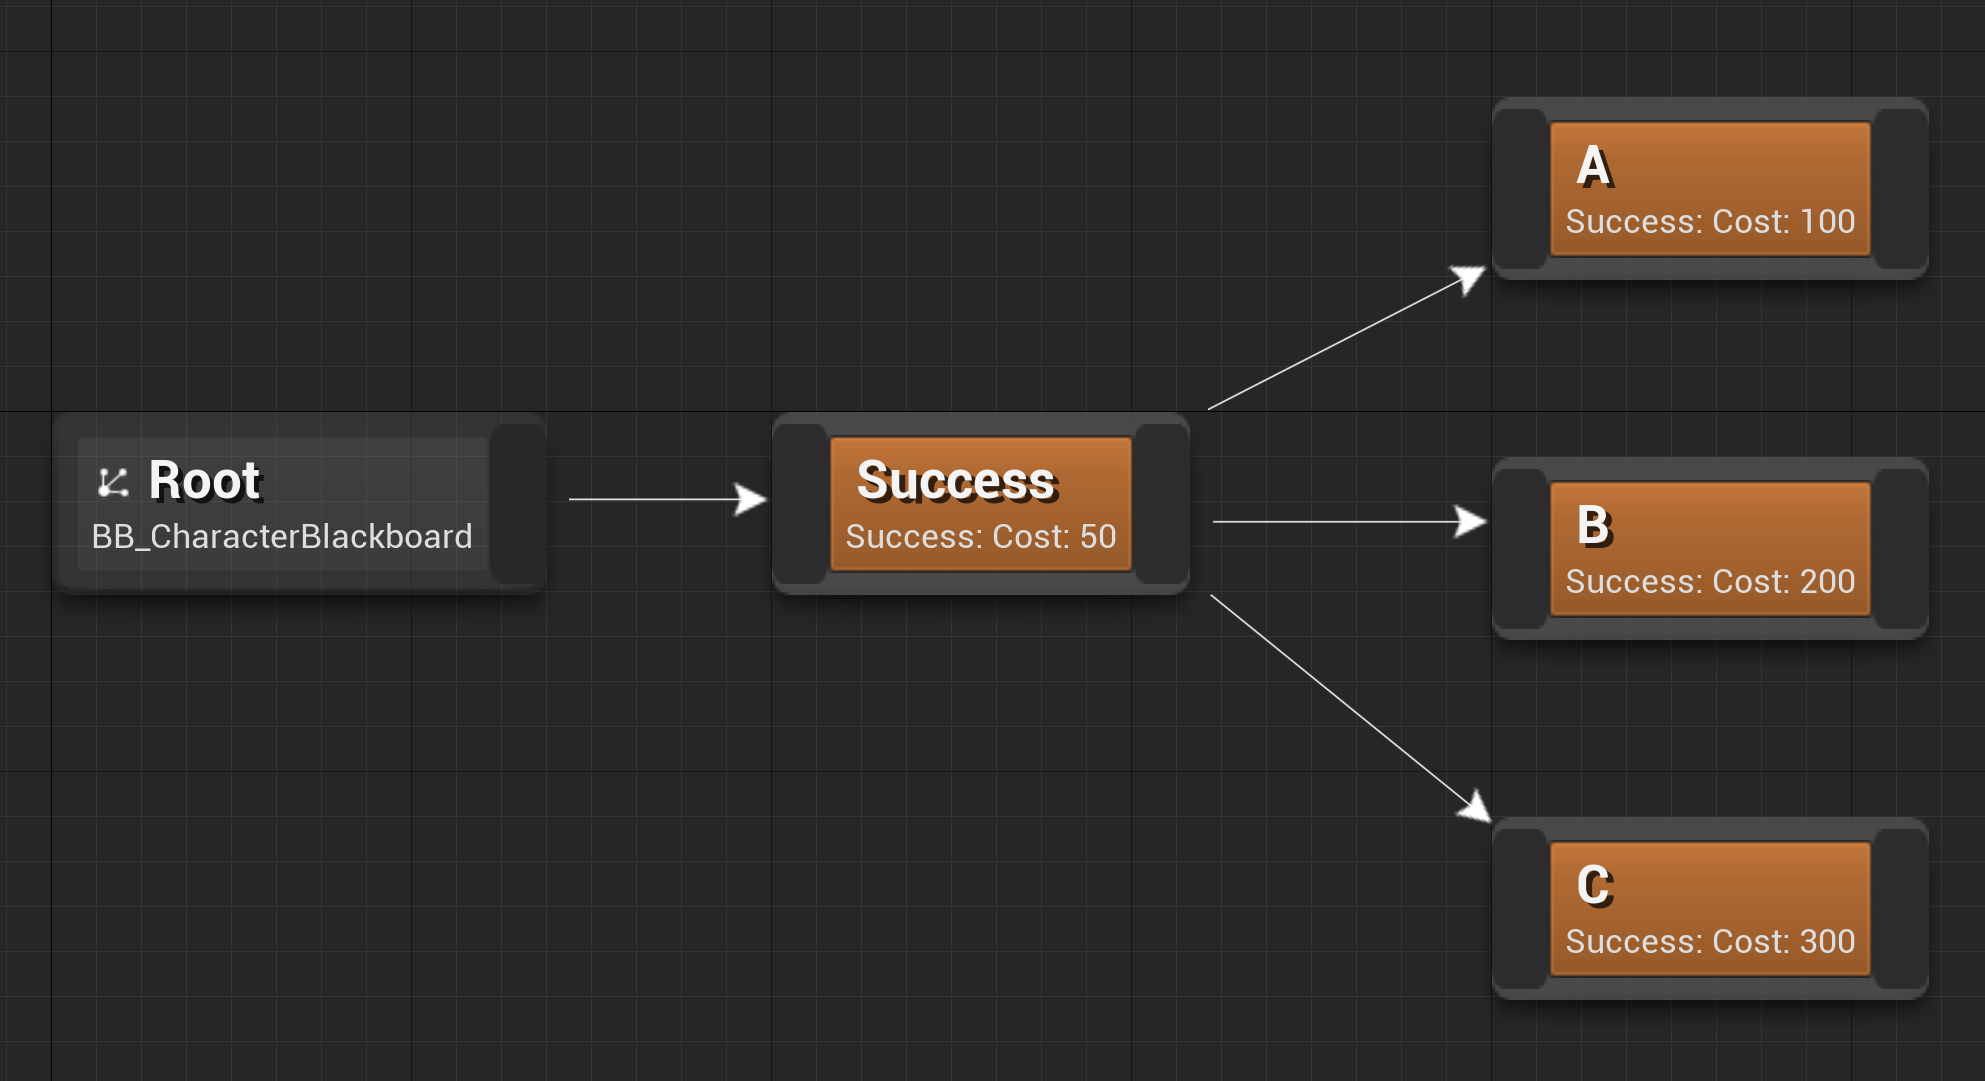
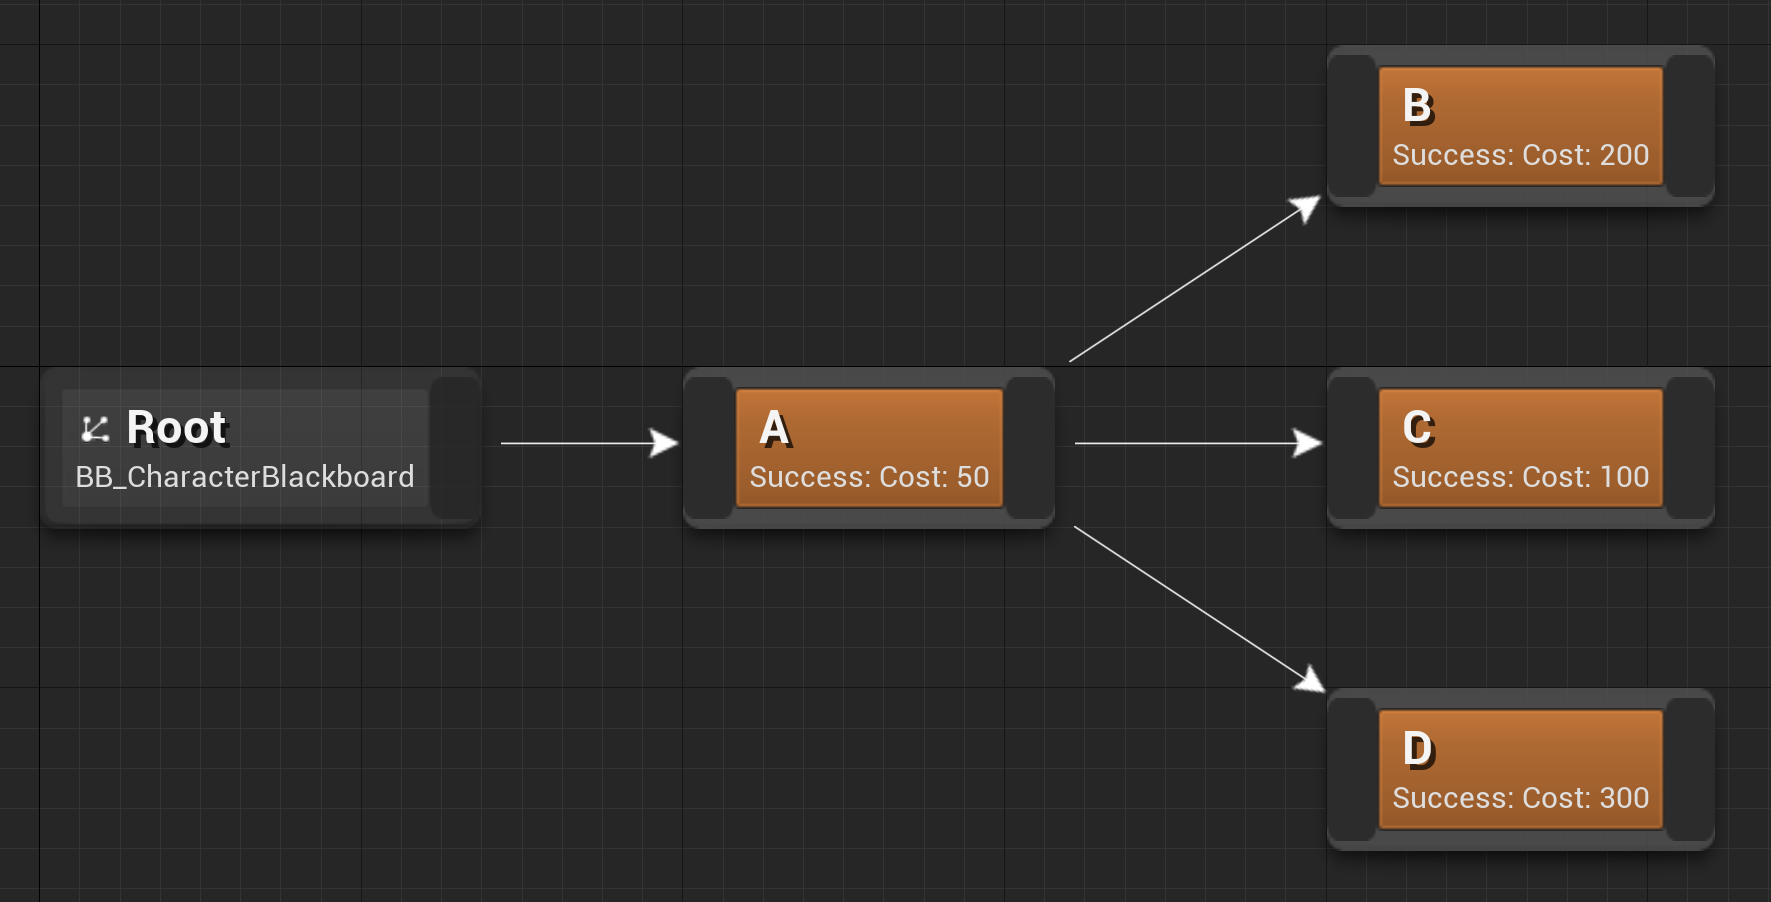
Improved cost-based planning example

diff --git a/planning.md b/planning.md
@@ -105,23 +105,23 @@ The entire planning process for this HTN can be expressed by this tree-like summ
 A summary similar to this is logged into the [visual logger](vislog?id=logging-the-planning-process) at the end of every planning process.
 </div>
 
-### Another example
+### Example: costs
             
 ![A simple Task Network](_media/example_htn1.png ':size=800')
 
 This HTN can produce three possible plans: 
-- `Success 🡒 A` (Cost 150)
-- `Success 🡒 B` (Cost 250)
-- `Success 🡒 C` (Cost 350)
+- `A 🡒 B` (Cost 250)
+- `A 🡒 C` (Cost 150)
+- `A 🡒 D` (Cost 350)
 
-The planner chooses the plan `Success 🡒 A` because it has the lowest cost of the three.
+The planner chooses the plan `A 🡒 C` because it has the lowest cost of the three.
 The planning process gets logged into the [visual logger](vislog?id=logging-the-planning-process) like this:
 
 - Root
-    - [> #0 Cost: 50] Success
-        - [> #1 Cost: 150] A
-        - [#2 Cost: 250] B
-        - [#3 Cost: 350] C
+    - [> #0 Cost: 50] A
+        - [#1 Cost: 250] B
+        - [> #2 Cost: 150] C
+        - [#3 Cost: 350] D
         
 ## Plan rechecking
 
